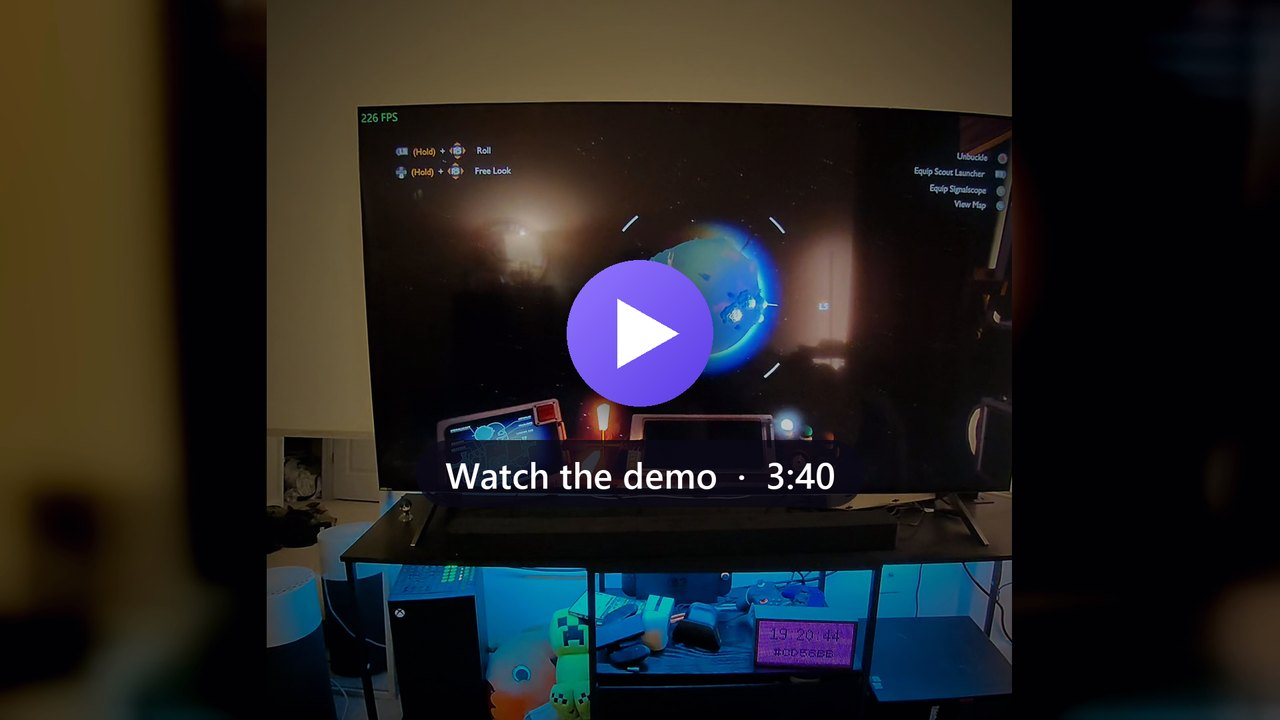
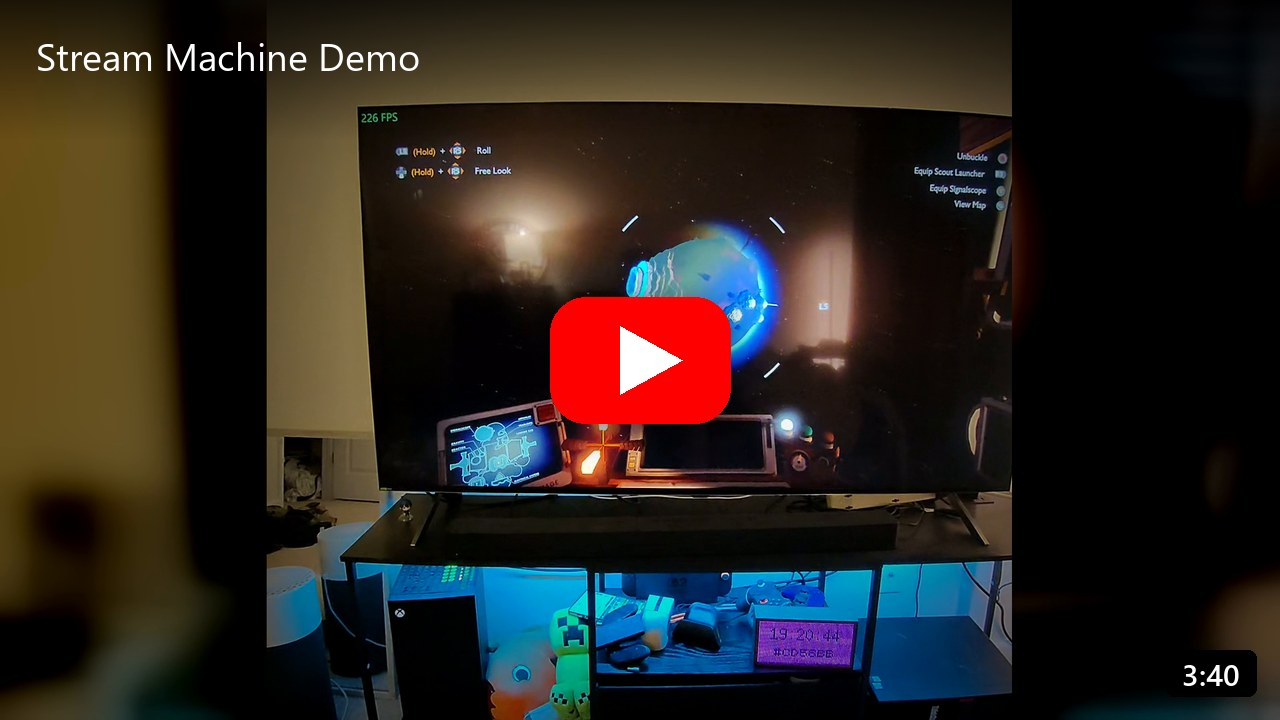
README: YouTube demo player

diff --git a/README.md b/README.md
@@ -21,8 +21,8 @@ console. The TV turns on with it and off with it, the stream starts when you pic
 lives in a menu you open by **holding the Xbox button**. You don't need a keyboard, a mouse or the TV remote.
 
 <div align="center">
-<a href="https://www.youtube.com/watch?v=cAKFC2R1WS4"><img src="docs/screenshots/demo.jpg" alt="Watch the demo video (3:40): a TV streaming a game from a gaming PC in another room" width="80%"></a><br>
-<sub><b>Demo (3:40):</b> every feature on a real TV, start to finish. <a href="https://www.youtube.com/watch?v=cAKFC2R1WS4">Watch it on YouTube</a>.</sub>
+<a href="https://www.youtube.com/watch?v=cAKFC2R1WS4"><img src="docs/screenshots/demo.jpg" alt="Stream Machine demo on YouTube (3:40)" width="80%"></a><br>
+<sub>Every feature on a real TV, start to finish. Click to watch on YouTube.</sub>
 </div>
 
 ## Why I built this
